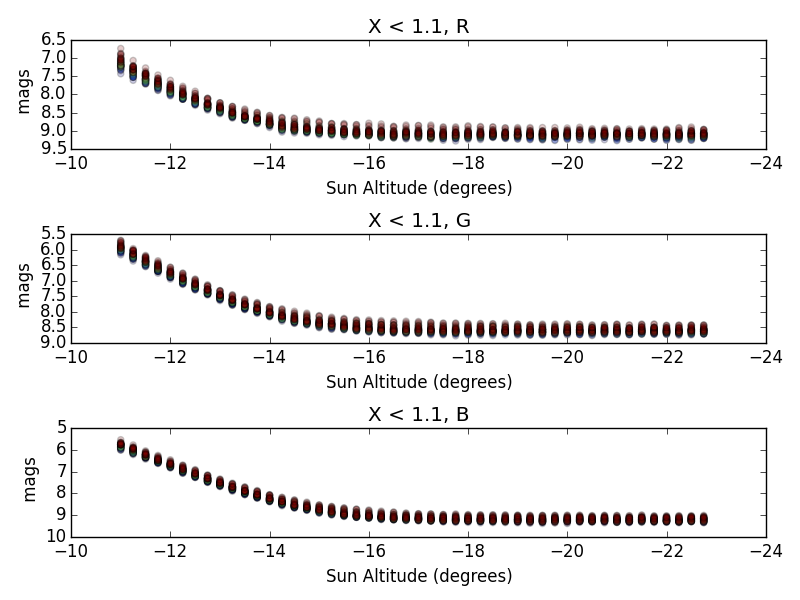
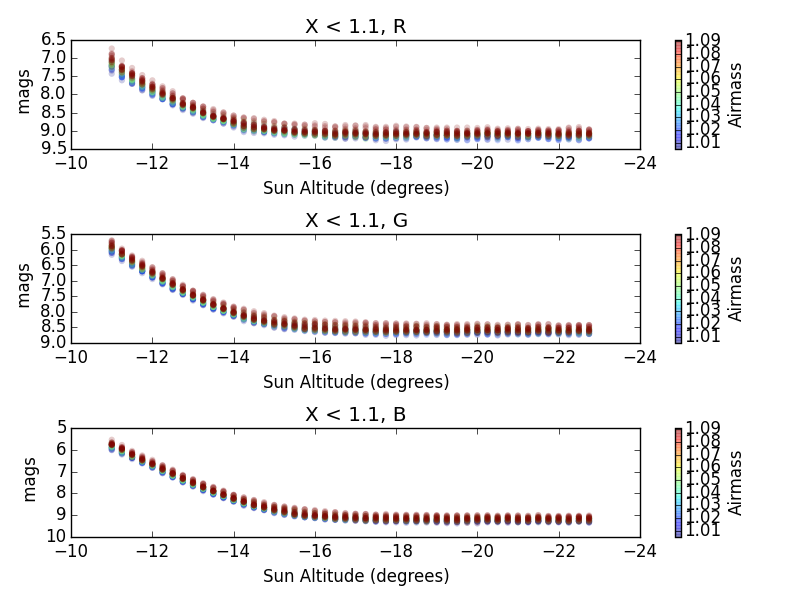
starting writup doc

diff --git a/doc/tex/skyModel.tex b/doc/tex/skyModel.tex
@@ -1,0 +1,109 @@
+%\documentclass[12pt,preprint]{aastex}
+\documentclass{emulateapj}  %to switch to 2-column, comment out first line and uncomment 2nd line
+\usepackage{url}
+%\usepackage{natbib}
+%\usepackage{xspace}
+\def\arcsec{$^{\prime\prime}$}
+\bibliographystyle{apj}
+\newcommand\degree{{^\circ}}
+\newcommand\surfb{$\mathrm{mag}/\square$\arcsec}
+\newcommand\Gyr{\rm{~Gyr}}
+\newcommand\msun{\rm{M}_\odot}
+\newcommand\kms{km s$^{-1}$}
+\newcommand\al{$\alpha$}
+\newcommand\ha{$\rm{H}\alpha$}
+\newcommand\hb{$\rm{H}\beta$}
+
+
+
+\shorttitle{LSST Sky Model}
+\shortauthors{Yoachim et al.}
+
+\begin{document}
+
+\title{A Sky Brightness Model for LSST}
+
+
+\author{Peter Yoachim\altaffilmark{1}, author 2, author 3}
+
+\altaffiltext{1}{Department of Astronomy, University of Washington, Box 351580,
+Seattle WA, 98195; {yoachim@uw.edu} }
+
+\begin{abstract}
+
+\end{abstract}
+
+
+\section{Introduction}
+
+As a starting point, we use the ESO SkyCalc Sky Model Calculator\footnote{\url{http://www.eso.org/observing/etc/bin/gen/form?INS.MODE=swspectr+INS.NAME=SKYCALC}}.  This model includes scattered moonlight, scattered starlight, zodiacal light, molecular emission from the lower atmosphere, emission lines from the upper atmosphere, and airglow continuum.  
+
+
+
+
+\section{The ESO Model}
+
+
+\subsection{Zodiacal Light}
+
+\subsection{Scattered Moonlight}
+
+\citet{Krisciunas91} provide one of the most popular models for computing the scattered moon light. This model is based on observed magnitudes from Mauna Kea. The ESO code uses the updated model of \citet{Jones13} which is fully spectroscopic and designed for Cerro Paranal.
+
+\citet{Noll12}
+
+\subsection{Structure of the ESO Templates}
+
+We save the ESO template spectra as numpy zip files.  The specta run from 300 nm to 2 microns, with 0.1 nm stepsize.
+
+In addition to the spectra, we also pre-compute the 6 LSST magnitudes from the spectrum at each model point.
+
+\section{Interpolating the Templates}
+
+We combine the three components that only depend on airmass (xxx,xxx,xxx).
+
+For all the interpolations, we weight and average the log of the template spectra.
+
+For the Zodiacal and Lunar components, since we have placed the templates at healpix gridpoints, we can use fast healpy routines to find the 4 nearest healpixel points, along with their weights.  
+
+
+\section{Additional Components}
+
+\subsection{Twilight}
+
+The ESO sky model does not include a component for scattered sunlight.  The twilight sky brightness is difficult to compute analytically.  While scattered moonlight can be computed via a single or double scattering model, the solar twilight comes from multiple scatterings, thus there is no simple analytic model for computing the solar twilight from first principles and models must instead rely on Monte Carlo radiative transfer simulations \citep{Patat06}.
+
+Rather than run a lot of radiative transfer, looking at the data from the all-sky camera as well as other sites shows that after the sun's altitude is less that $\sim-10\degree$ the zenith twilight flux decays exponentially with solar altitude.
+
+\begin{figure*}
+  \plotone{../../examples/Plots/diode.pdf}
+  \caption{The photodiode data.  All three photodiodes are pointed to zenith. The light gray points show individual measurements, while the yellow points are the median-binned data. The solid blue line shows the best fit exponetial decay plus constant. The green vertical line marks 12 degree twilight, and the dashed vertical blue line shows where the data was not used because the detector was often saturated at that point. \label{diodePlot}}
+\end{figure*}
+
+
+\begin{figure*}
+  \epsscale{1}
+  \plottwo{../../examples/Plots/altDecay.pdf}{../../examples/Plots/altDecayHA.pdf}
+  \epsscale{1}
+  \caption{Photometry from the Cannon all-sky camera, after it was been median-binned and selected for only times where the moon is down.  At low airmass (top panel), the sky brightness decays exponentially and has a small variation that is dominated by the change in airmass.  At higher airmasses, the decay is still expoential, but now is a function of both airmass and azimuth relative to the sun.}
+\end{figure*}
+
+
+\section{Speed Testing}
+
+
+\section{What's Not Included}
+
+There are several things that, in theory, could be used to better refine the returned sky spectrum.
+
+blahblah, solar activity can boost emission lines.
+
+blahblah, the IR sky is known to be variable on short timescales.
+
+blahblah, emission lines are brighter right after sunset and before sunrise.
+
+Clouds are complicated since they block some sources of sky background while also reflecting other components.  
+
+
+\bibliography{skyModel.bib}
+\end{document}

diff --git a/examples/fitTwiSlopesSimul.py b/examples/fitTwiSlopesSimul.py
@@ -172,6 +172,7 @@ for filterName in filters:
     hp.mollview(magMap, fig=10, unit='mag/sq arcsec', rot=(0,90),
                 title='Canon %s, sunAlt=0'%colors[counter-1])
     fig2.savefig('Plots/magMap_%s.png'%colors[counter-1])
+    fig2.savefig('Plots/magMap_%s.pdf'%colors[counter-1])
     plt.close(fig2)
 
 
@@ -223,41 +224,44 @@ for filterName in filters:
     constMap2[hpidIn] = fitParams2[5:]
 
     ax = residPlot1.add_subplot(3,1,counter)
-    s = ax.scatter(np.degrees(xdata['sunAlt']), resids, c=np.degrees(xdata['alt']), alpha=.2, edgecolor=None)
+    s = ax.scatter(np.degrees(xdata['sunAlt']), resids, c=np.degrees(xdata['alt']), alpha=.2, edgecolor='none')
     ax.set_xlabel('Sun Altitude (degrees)')
     ax.set_ylabel('Model - Data (mags)')
     ax.set_title('Az-dependent fits, RMS=%.2f, %s'%(resids.std(), filterName))
     cb = residPlot1.colorbar(s)
-    cb.set_label('Target Altitude (degrees)')
+    cb.set_label('Alt (deg)')
 
     ax = residPlot2.add_subplot(3,1,counter)
-    s = ax.scatter(np.degrees(xdata['sunAlt']), resids2, c=np.degrees(xdata['alt']), alpha=.2, edgecolor=None)
+    s = ax.scatter(np.degrees(xdata['sunAlt']), resids2, c=np.degrees(xdata['alt']), alpha=.2, edgecolor='none')
     ax.set_xlabel('Sun Altitude (degrees)')
     ax.set_ylabel('Model - Data (mags)')
     ax.set_title('Az-independent fits, RMS=%.2f, %s'%(resids2.std(), filterName))
     cb = residPlot2.colorbar(s)
-    cb.set_label('Target Altitude (degrees)')
+    cb.set_label('Alt (deg)')
 
     ax = altBPlot.add_subplot(3,1,counter)
     lowAM = np.where((xdata2['airmass'] > 0) & (xdata2['airmass'] < 1.1))
-    ax.scatter(np.degrees(xdata2['sunAlt'][lowAM]),  -2.5*np.log10(flux[lowAM]),
-               c=xdata2['airmass'][lowAM], edgecolor=None, alpha=0.2)
+    s= ax.scatter(np.degrees(xdata2['sunAlt'][lowAM]),  -2.5*np.log10(flux[lowAM]),
+               c=xdata2['airmass'][lowAM], edgecolor='none', alpha=0.2)
     ax.set_xlabel('Sun Altitude (degrees)')
     ax.set_ylabel(' mags')
     ax.set_title('X < 1.1, %s' % filterName)
     ax.set_xlim(ax.get_xlim()[::-1] )
     ax.set_ylim(ax.get_ylim()[::-1] )
-
+    cb = altBPlot.colorbar(s)
+    cb.set_label('Airmass')
 
     ax = altBHAPlot.add_subplot(3,1,counter)
     lowAM = np.where((xdata2['airmass'] < 2.5) & (xdata2['airmass'] > 2.))
-    ax.scatter(np.degrees(xdata2['sunAlt'][lowAM]),  -2.5*np.log10(flux[lowAM]),
-               c=xdata2['airmass'][lowAM], edgecolor=None, alpha=0.2)
+    s= ax.scatter(np.degrees(xdata2['sunAlt'][lowAM]),  -2.5*np.log10(flux[lowAM]),
+               c=xdata2['azRelSun'][lowAM], edgecolor='none', alpha=0.2)
     ax.set_xlabel('Sun Altitude (degrees)')
     ax.set_ylabel('mags')
     ax.set_title('2.5 <  X < 2.0, %s' % filterName)
     ax.set_xlim(ax.get_xlim()[::-1] )
     ax.set_ylim(ax.get_ylim()[::-1] )
+    cb = altBHAPlot.colorbar(s)
+    cb.set_label('Target Az')
 
     #--------
     # Let's look at the zeropoints
@@ -302,22 +306,28 @@ print 'Best fit parameters:'
 print fitDict
 
 fig.savefig('Plots/simulfits.png')
+fig.savefig('Plots/simulfits.pdf')
+
 plt.close(fig)
 residPlot1.tight_layout()
 residPlot1.savefig('Plots/residPlot1.png')
+residPlot1.savefig('Plots/residPlot1.pdf')
 plt.close(residPlot1)
 
 residPlot2.tight_layout()
 residPlot2.savefig('Plots/residPlot2.png')
+residPlot2.savefig('Plots/residPlot2.pdf')
 plt.close(residPlot2)
 
 
 altBPlot.tight_layout()
 altBPlot.savefig('Plots/altDecay.png')
+altBPlot.savefig('Plots/altDecay.pdf')
 plt.close(altBPlot)
 
 altBHAPlot.tight_layout()
 altBHAPlot.savefig('Plots/altDecayHA.png')
+altBHAPlot.savefig('Plots/altDecayHA.pdf')
 plt.close(altBHAPlot)
 
 #hp.mollview(constMap2, rot=(0,90))

diff --git a/examples/fitDiode.py b/examples/fitDiode.py
@@ -95,8 +95,8 @@ fig = plt.figure()
 for i,filterName in enumerate(filterNames):
     good = np.where( diode[filterName] < 480. )
     ax = fig.add_subplot(3,1,i+1)
-    ax.semilogy(np.degrees(diode['sunAlt'][good][::10]),
-                diode[filterName][good][::10], 'ko', alpha=.01 )
+    ax.semilogy(np.degrees(diode['sunAlt'][good][::100]),
+                diode[filterName][good][::100], 'ko', alpha=.01 )
     ax.set_xlabel('Sun Altitude (degrees)')
     ax.set_ylabel('Flux (arbitrary) ')
     ax.set_title(filterName)
@@ -122,6 +122,8 @@ for i,filterName in enumerate(filterNames):
 
 fig.tight_layout()
 fig.savefig('Plots/diode.png')
+fig.savefig('Plots/diode.pdf')
+
 plt.close(fig)
 
 print 'Best fit exponential = constant, normalized to ESO dark zenith'

diff --git a/examples/tryUber.py b/examples/tryUber.py
@@ -76,8 +76,8 @@ types = [float,float,float, float,float,float,'|S1']
 dtypes = zip(names,types)
 
 # Temp to speed things up
-#maxID = 3000
-maxID= 300
+maxID = 3000
+#maxID= 300
 
 for dateID in np.arange(minID.max(),minID.max()+maxID+1):
     sqlQ = 'select stars.ra, stars.dec, stars.ID, obs.starMag, obs.starMag_err,obs.sky, obs.filter from obs, stars where obs.starID = stars.ID and obs.filter = "%s" and obs.dateID = %i and obs.starMag_err != 0;' % (filt,dateID)
